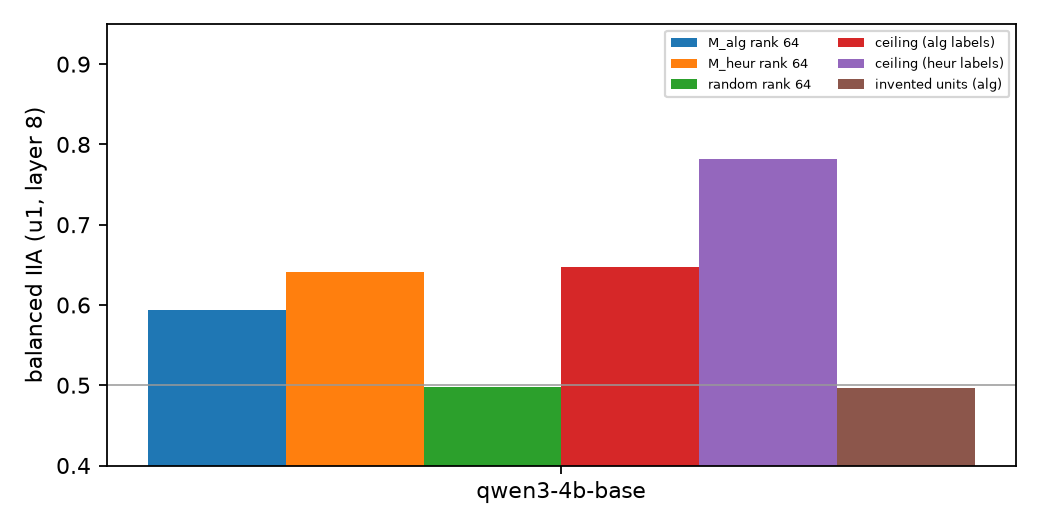
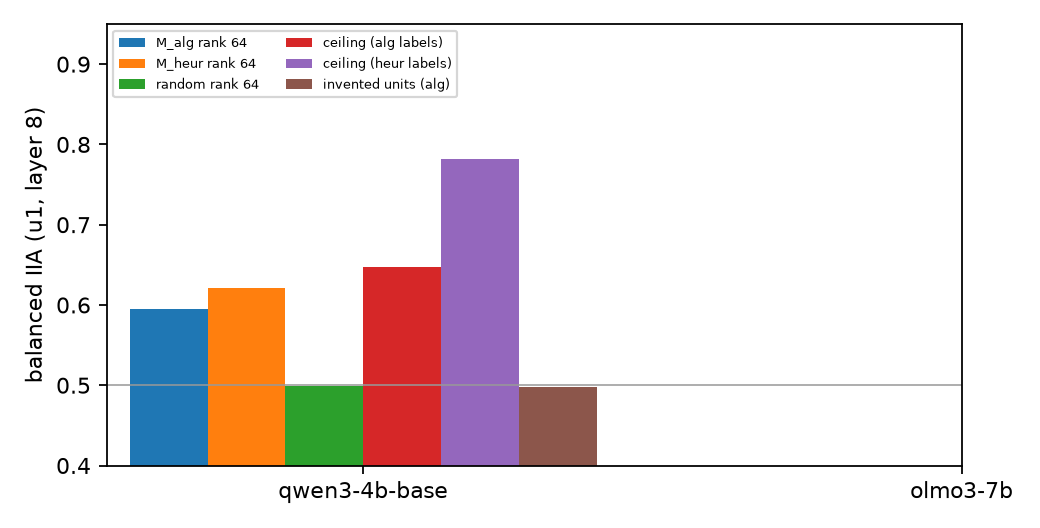
t1: corrected controls logged; phase-2 figures refreshed

diff --git a/t1/NOTEBOOK.md b/t1/NOTEBOOK.md
@@ -244,3 +244,15 @@ Implanting the second slot's dimension into slot 1 (full residual of the unit to
 - Per-point (M_alg, seeds 1–2): implanted base dimension 0.57–0.58 vs derived 0.60; base→base 0.56, derived→derived 0.58 — **no base-vs-derived gradient** (graded branch not supported). Per operation: convert 0.70, compare 0.59–0.60, equate 0.55–0.56, add 0.52–0.53 — the effect is largest for the operation whose base judgment was best calibrated (convert, AUROC 0.98).
 - Controls: natural-distribution projection (LOO-lexeme D1 accuracy on the 64-dim projection) 0.69 for the learned subspaces vs 0.55 for a random 64-dim projection (majority 0.12): the learned subspaces are not dormant. Noising (mismatching source into a clean "yes" base): flips to "no" 49% (alg) / 36% (heur) vs 2% (random). Text-rewrite reference on the same examples: 42% lawful changes vs 25% (alg subspace) — the subspace reproduces ~60% of what editing the unit string does.
 - **Bug found in the value-preservation / binding checks:** the intervened downstream activations were read from `hidden_states[layer]` (= the *input* to block `layer`) while the hook patches the *output* of block `layer`; the clean/after mismatch produced R² ≈ −92 identically for every subspace, and the D2 check was read before the swap could propagate (1.00 trivially). Fixed: downstream probes now read block outputs 6 layers later, clean and intervened alike; re-running. **Convention note for the write-up:** Phase-1 cache "layer l" = `hidden_states[l]` = residual entering block l (embeddings at 0); Phase-2 "layer l" = residual leaving block l (= `hidden_states[l+1]`). Each analysis is internally consistent; cross-phase layer numbers differ by one.
+
+### E2.2 — corrected control battery (Qwen3-4B, u1 L8, rank 64, 3 seeds; downstream probes at block 14; 2026-09-13 18:30)
+| control | M_alg subspace | M_heur subspace | random rank-64 |
+|---|---|---|---|
+| natural-distribution projection, LOO-lexeme D1 accuracy (majority 0.12) | 0.69 | 0.69 | 0.47 (random 64-dim projection 0.55) |
+| value probe R² (quantity 1's numeral, answer token, block 14): clean → after D1 swap | 0.96 → **0.55** | 0.96 → **0.74** | 0.96 → 0.93 |
+| D2 readout at u2 (block 14): clean → after D1 swap | 1.00 → 0.99 | 1.00 → 1.00 | 1.00 → 1.00 |
+| noising: clean "yes" base + mismatching source → flips to "no" | 0.49 | 0.36 | 0.02 |
+| dose–response α = 0.25 / 0.5 / 0.75 / 1 | 0.50 / 0.53 / 0.57 / 0.60 | 0.51 / 0.53 / 0.55 / 0.62 | 0.50 |
+| text-rewrite reference (edit the unit string): lawful changes | 0.42 | — | — |
+| subspace lawful changes (same examples) | 0.25 | 0.17 | 0.02 |
+Interpretation: the effective subspace is real (not dormant; necessity via noising; monotone dose; no contamination of quantity 2) but it is **not value-free**: swapping 64 dimensions of the unit-1 token disturbs the downstream readout of quantity 1's *numeral* (R² 0.96 → 0.55). The pre-registered double-dissociation (P2.11: within 0.05) fails — the "unit" representation at u1 carries information the model also uses for the value, i.e. the swap moves a bound number–unit representation, not a pure dimension coordinate.
